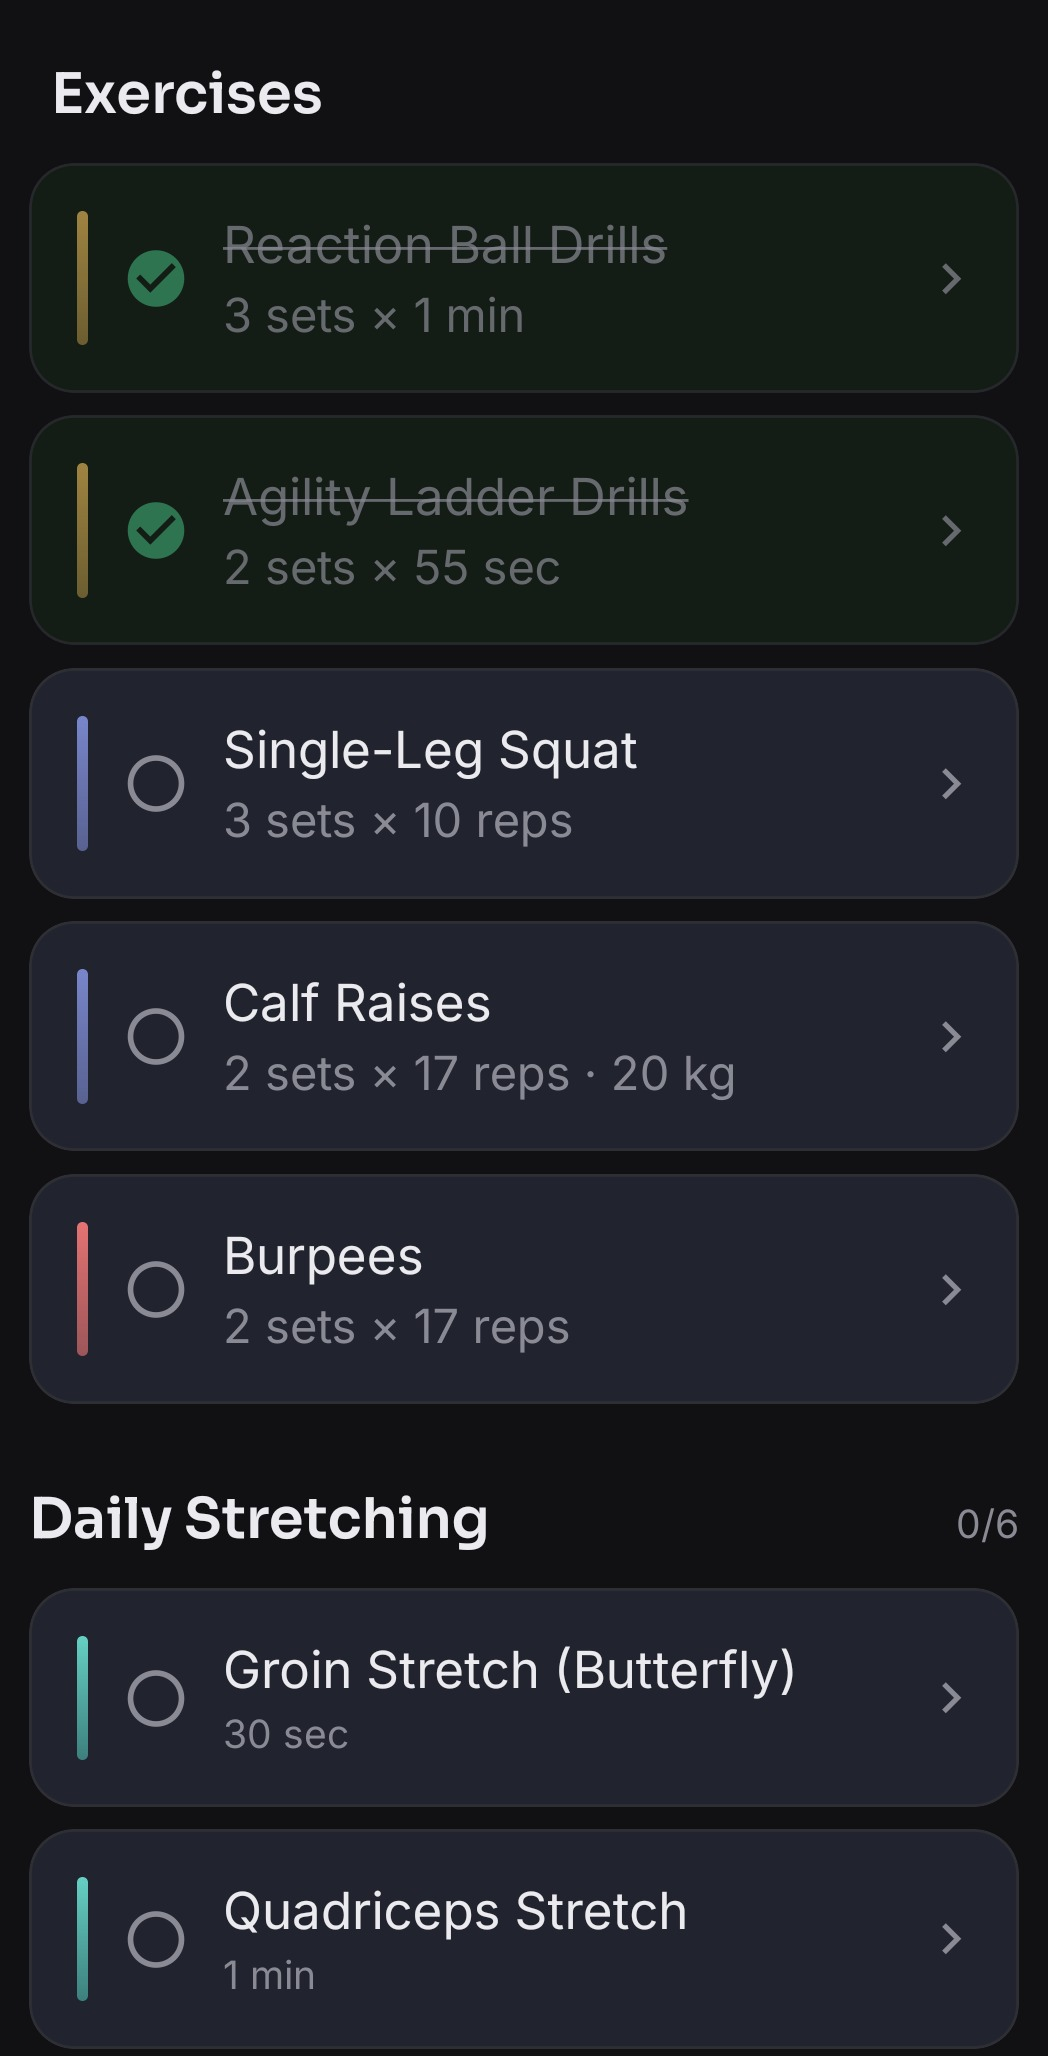
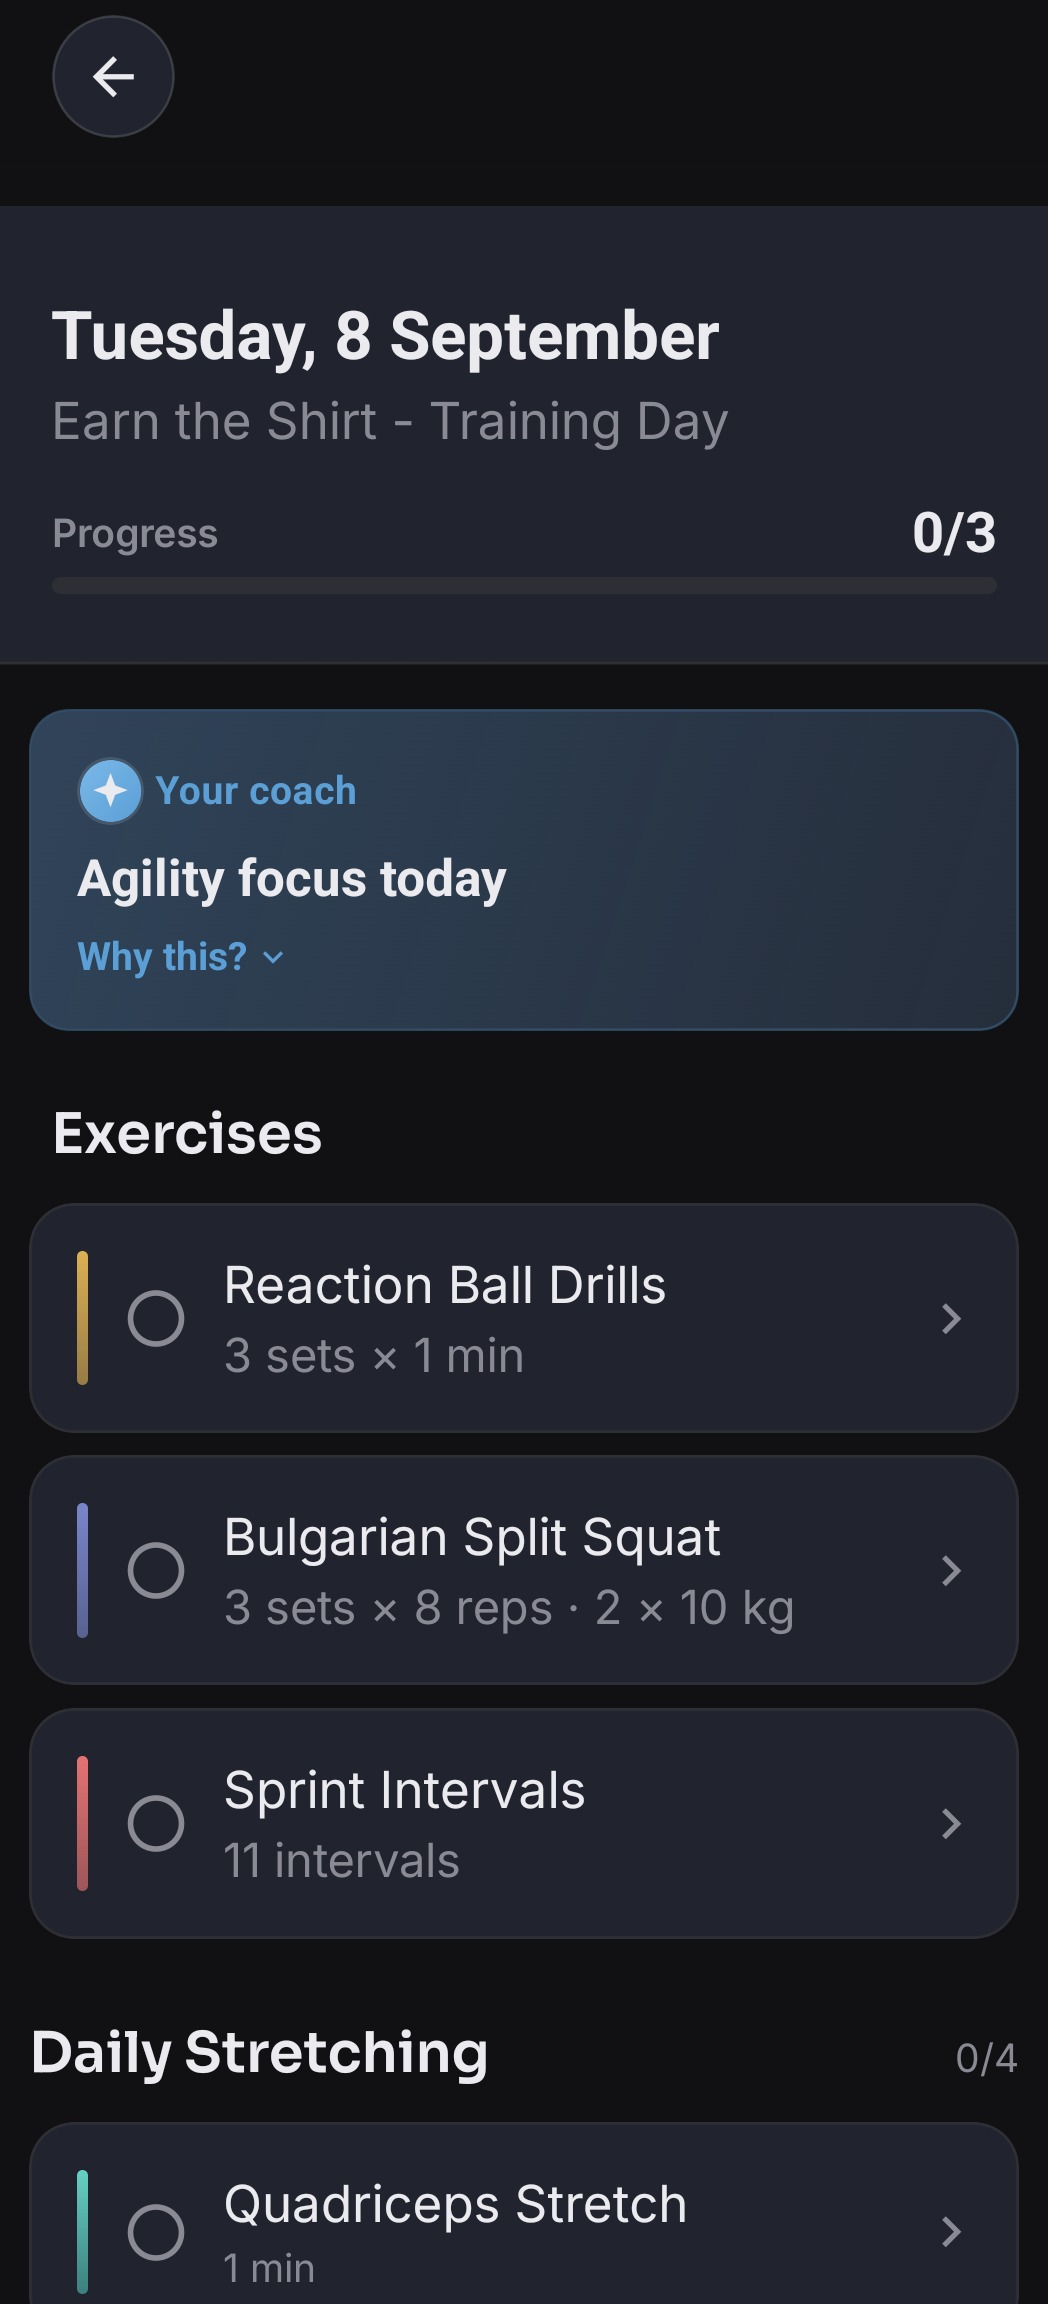
home: drop the scrolled capture, one composition per slot
04 was a mid-scroll shot that started at the Exercises heading, so the slot was
rotating between two screen shapes - three captures opening on the date and
coach card, one opening halfway down. Same reason the expanded Today's Log came
out of diet.

The four left all open the same way: back arrow, date, session name, coach card,
Exercises. What differs is the day, the session and the exercises in it.

Generalised the rule in assets/screens/README.md - it now covers the slot idea
rather than being written as a diet quirk, and names both captures cut for it.

diff --git a/assets/screens/README.md b/assets/screens/README.md
@@ -40,7 +40,25 @@ same account the store screenshots use. What good looks like:
     diet        calories actually logged, not 0 or a token number
     progress    a high completion percentage and a FULL heatmap
 
-### diet has a fixed composition
+### a slot is one composition, with different values
+
+Every capture in a slot shows the SAME screen, framed the same way. What varies
+between them is what is ON that screen - the numbers, the date, the session, how
+far round each ring has gone.
+
+That rules out mid-scroll captures of a screen whose other captures start at the
+top. They look fine on their own and they are genuinely different images, but
+the slot then rotates between two different screen SHAPES rather than one screen
+with different content, and the carousel stops looking like the same app twice.
+Two have been cut for exactly this: a diet capture with Today's Log expanded,
+and a home capture scrolled past the date header.
+
+    home        starts at the back arrow, date, session name, coach card,
+                then the Exercises list
+    diet        calorie card, three macro tiles, Add food, Today's Log
+                COLLAPSED, Nutrition Tips in view
+
+### what varies inside the diet slot
 
 Every diet capture is the SAME screen: the calorie card, the three macro tiles,
 Add food, Today's Log **collapsed**, and the Nutrition Tips card in view. What
